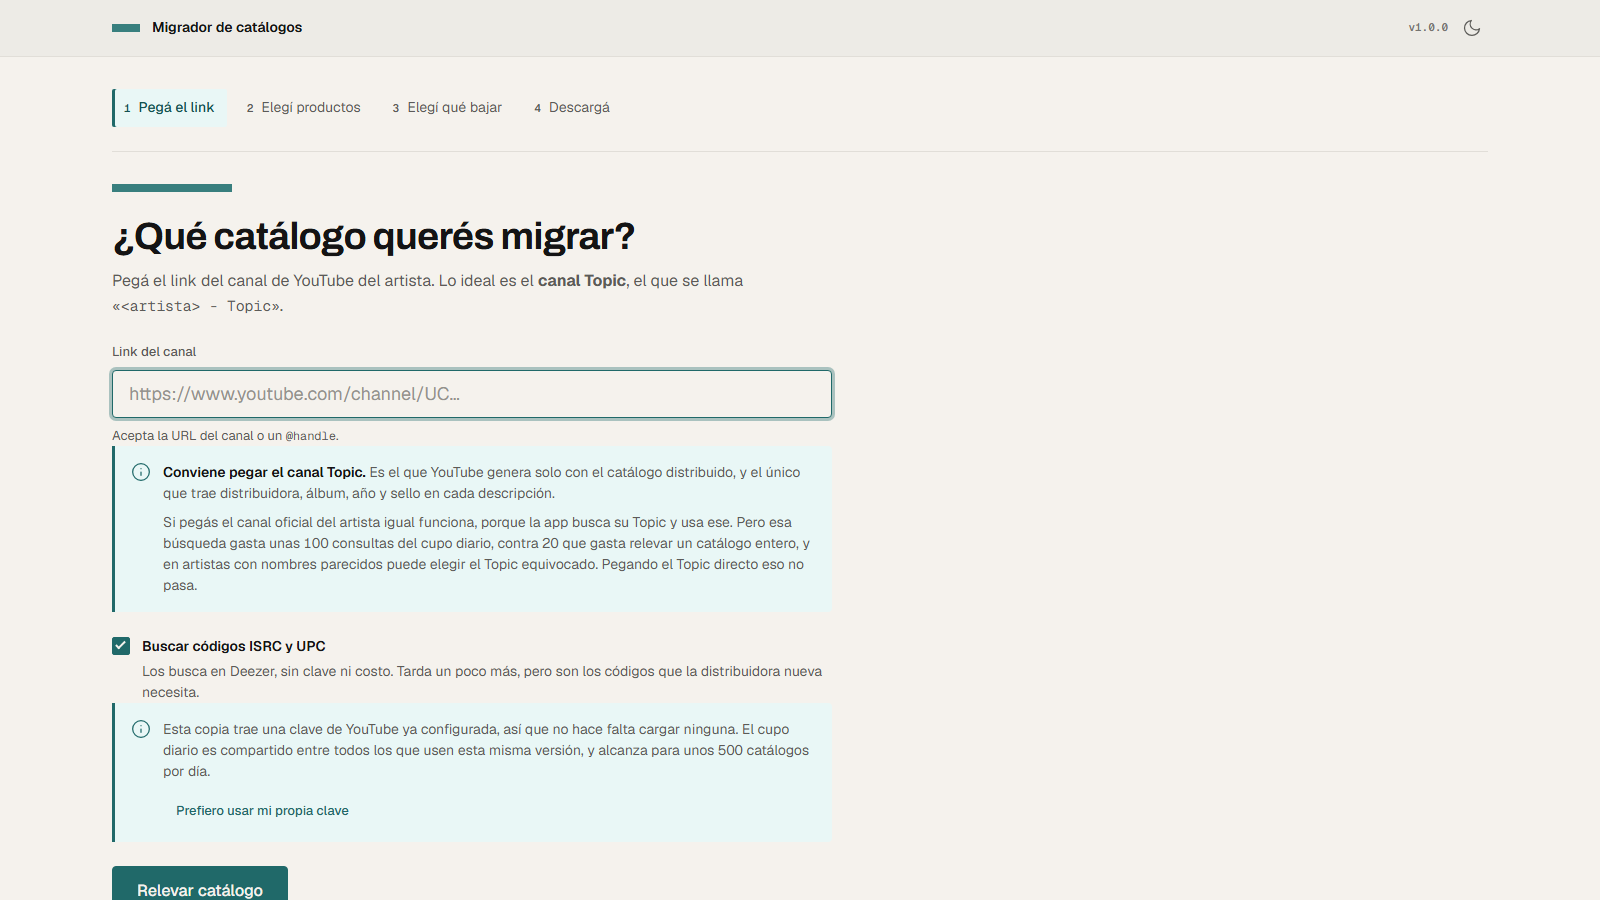
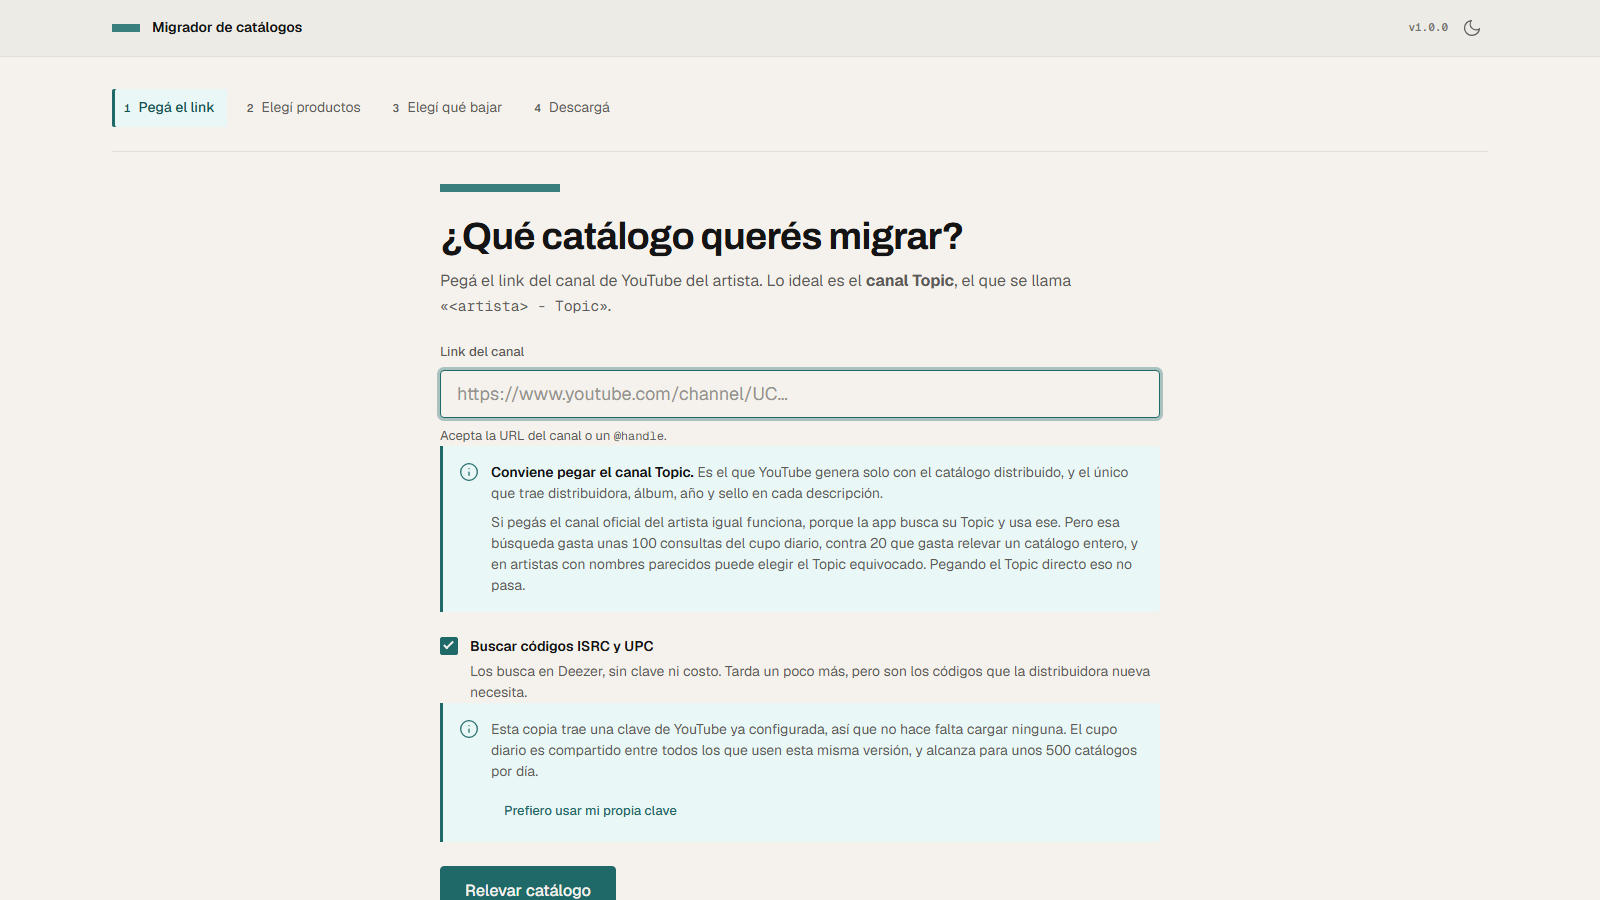
fix(ui): centrar los bloques de una sola columna
En una ventana ancha, los terminos y la pantalla de la clave quedaban pegados
al borde izquierdo con medio metro de vacio al lado, que se lee como un error
de maquetado y no como una decision.

El bloque va al medio y respira mas (880 en vez de 720), pero los parrafos
siguen topados en la medida de lectura: el ancho comodo para leer no cambia,
cambia donde esta el bloque.

diff --git a/app/web/app.css b/app/web/app.css
@@ -241,6 +241,7 @@ button.step.activo:hover { background: var(--bg-hover); color: var(--text-on-hov
   border: none; background: transparent;
   padding: 0 0 var(--space-6);
   max-width: var(--container-read);
+  margin-inline: auto;
 }
 
 /* ---------------------------------------------------------- botones */
@@ -607,9 +608,19 @@ details.acordeon > summary:hover .ico { color: var(--text-accent); }
 .footer .der { margin-left: auto; font-family: var(--font-mono); }
 
 /* ---------------------------------------------------------- documento largo */
-/* Los términos y la ayuda: medida de lectura, no ancho completo (§4.3). */
+/* Los términos y la ayuda.
+   Centrado y no pegado a la izquierda: en una ventana ancha, una columna de
+   texto contra el borde izquierdo con medio metro de vacío al lado se lee como
+   un error de maquetado. El bloque va al medio y respira más, pero los párrafos
+   siguen topados en la medida de lectura de §4.3, que es lo que de verdad
+   importa para leer. */
 
-.doc { max-width: var(--container-read); }
+.doc {
+  max-width: 880px;
+  margin-inline: auto;
+  padding: var(--space-8);
+}
+.doc > p, .doc li { max-width: var(--medida); }
 .doc h2 { margin-bottom: var(--space-4); }
 .doc h4 { margin: var(--space-8) 0 var(--space-3); }
 .doc p, .doc li { color: var(--text-secondary); font-size: var(--text-body-sm); line-height: var(--leading-body); }
